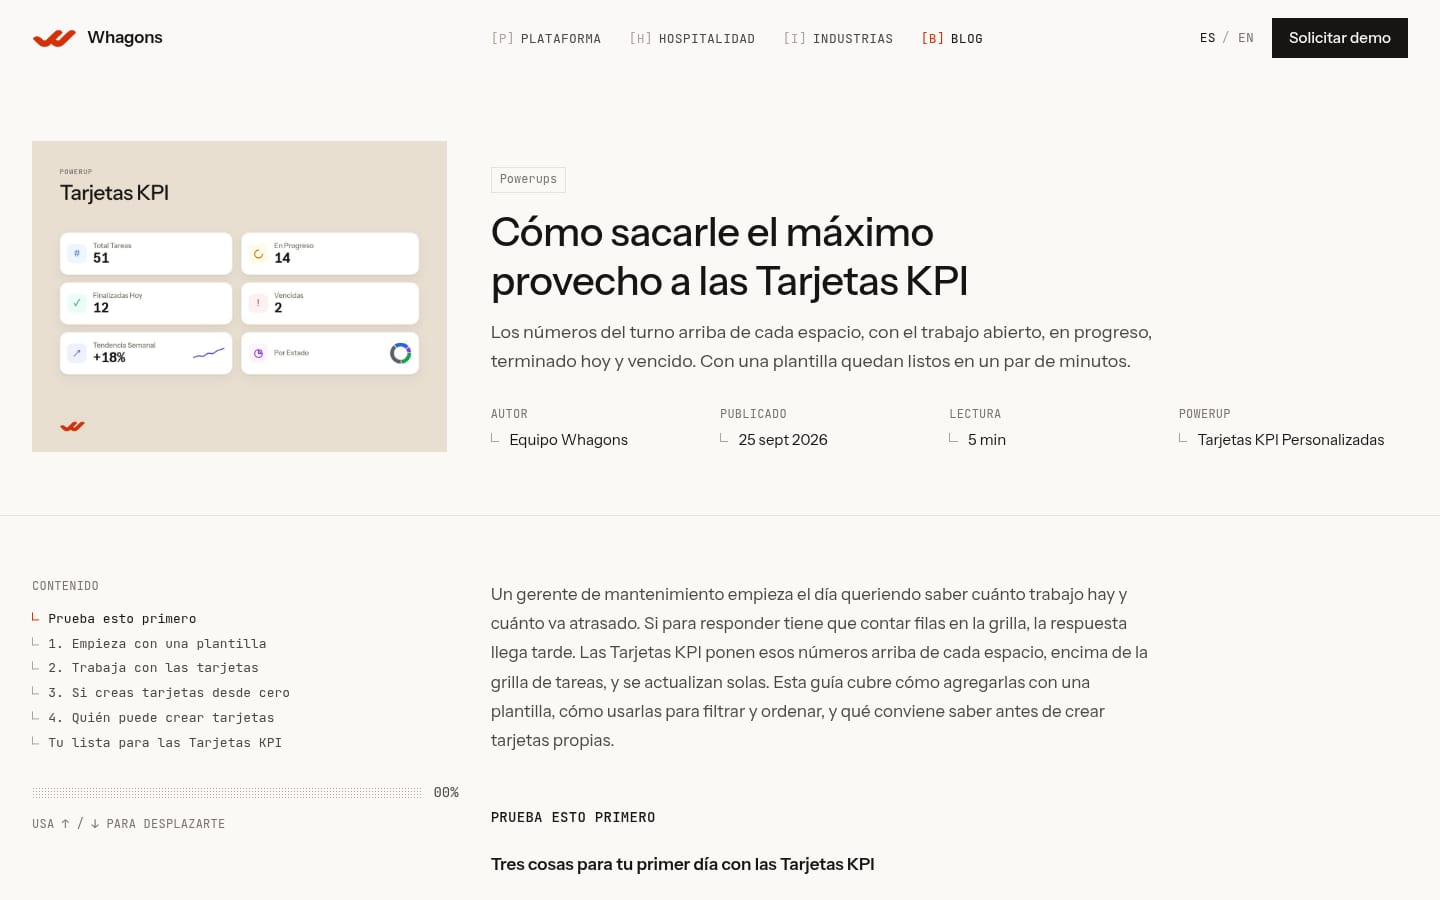
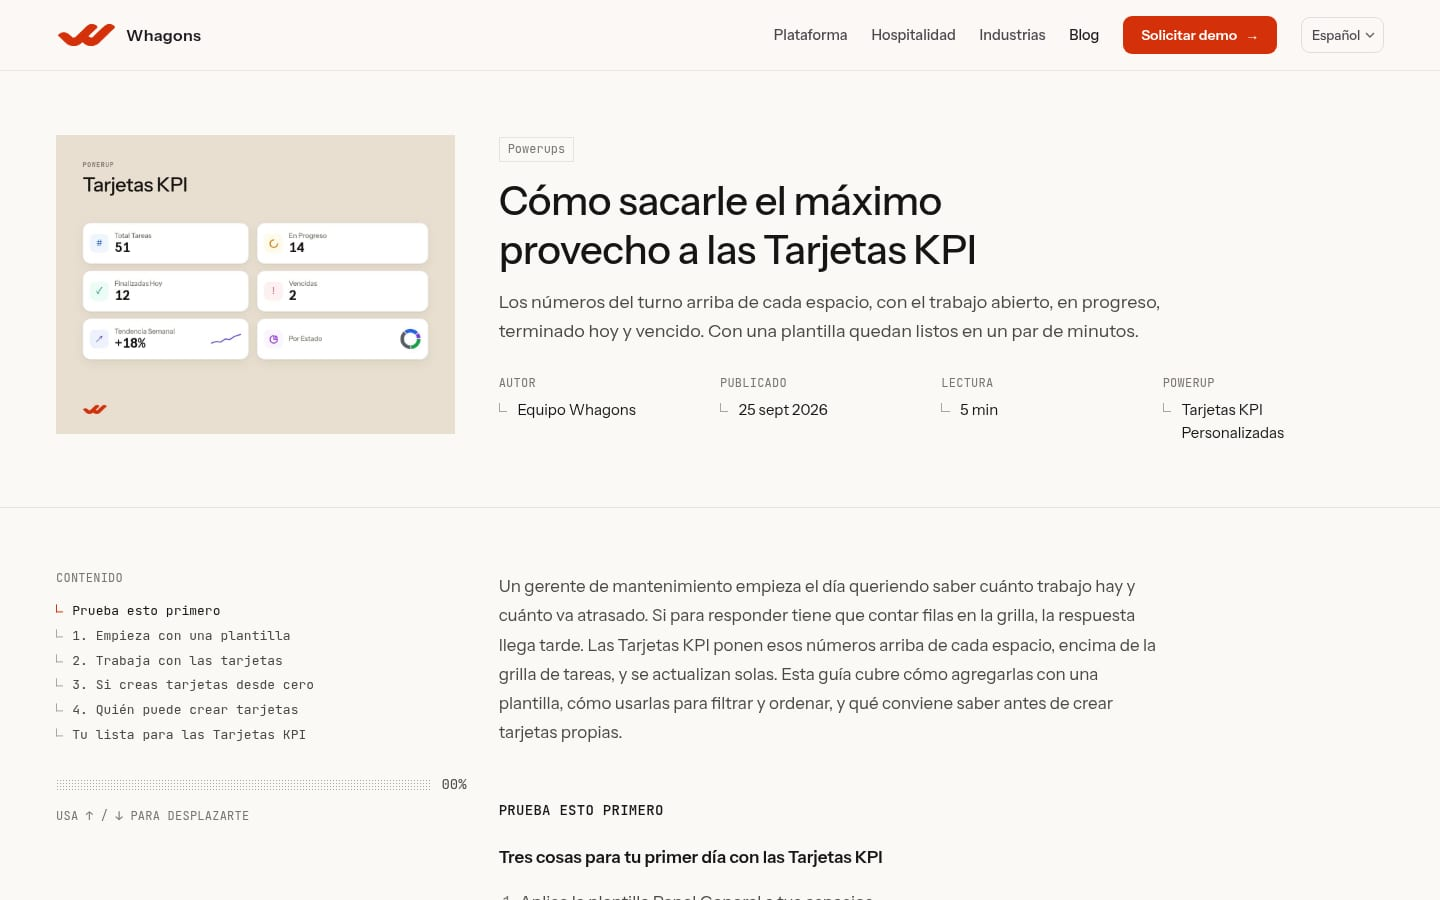
Replace PR #8 screenshots after the scope change
The PR now keeps the site's own design outside the blog, so the captures
show the blog in the site's chrome and the new home page section.

diff --git a/README.md b/README.md
@@ -4,5 +4,5 @@ Images embedded in the description of
 [pull request #8](https://github.com/suisseworks/whagons5-website/pull/8).
 This branch is not part of the site and never merges into main.
 
-Files in `pr-8/` starting with `b-` are captures of main before the redesign.
+Files in `pr-8/` starting with `m-` are phone-width captures.
 `pr-8/anim/` holds GIF previews of the blog animations.
